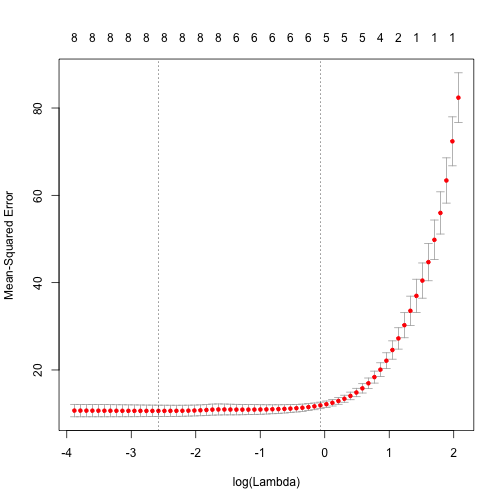
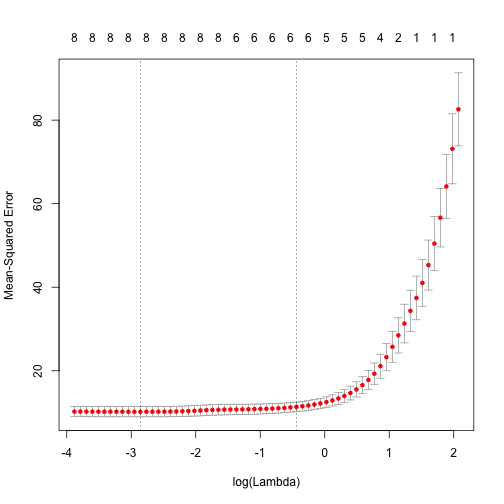
Changed instruction and exercise time, generated plots

diff --git a/_episodes/04-Supervised-Learning-II.md b/_episodes/04-Supervised-Learning-II.md
@@ -4,6 +4,7 @@
 title: 'Supervised Learning II: regression'
 author: "Hugo Bowne-Anderson, Jorge Perez de Acha Chavez"
 teaching: 30
+exercises: 10
 questions: 
 - "What if the target variable is numerical rather than categorical?"
 objectives: 
@@ -218,7 +219,7 @@ print(cvfit$lambda.min)
 
 
 ~~~
-[1] 0.07583914
+[1] 0.05736953
 ~~~
 {: .output}
 

diff --git a/_episodes/01-Loading_Exploring.md b/_episodes/01-Loading_Exploring.md
@@ -3,7 +3,8 @@
 # Instead, please edit 01-Loading_Exploring.md in _episodes_rmd/
 title: "Loading and exploring data"
 author: "Hugo Bowne-Anderson, Jorge Perez de Acha Chavez"
-teaching: 30
+teaching: 20
+exercises: 10
 questions: 
 - "What is Exploratory Data Analysis (EDA) and why is it useful?"
 - "How can I do EDA in R?"

diff --git a/_episodes/03-Supervised-Learning-I.md b/_episodes/03-Supervised-Learning-I.md
@@ -3,7 +3,8 @@
 # Instead, please edit 03-Supervised-Learning-I.md in _episodes_rmd/
 title: 'Supervised Learning I: classification'
 author: "Hugo Bowne-Anderson, Jorge Perez de Acha Chavez"
-teaching: 30
+teaching: 20
+exercises: 10
 questions: 
 - "How can I apply supervised learning to a data set?"
 objectives: 

diff --git a/_episodes/02-Unsupervised-Learning.md b/_episodes/02-Unsupervised-Learning.md
@@ -3,7 +3,8 @@
 # Instead, please edit 02-Unsupervised-Learning.md in _episodes_rmd/
 title: 'Unsupervised Learning'
 author: "Hugo Bowne-Anderson, Jorge Perez de Acha Chavez"
-teaching: 60
+teaching: 45
+exercises: 15
 questions: 
 - "What is principal component analysis (PCA)?"
 - "How can I perform PCA in R?"
